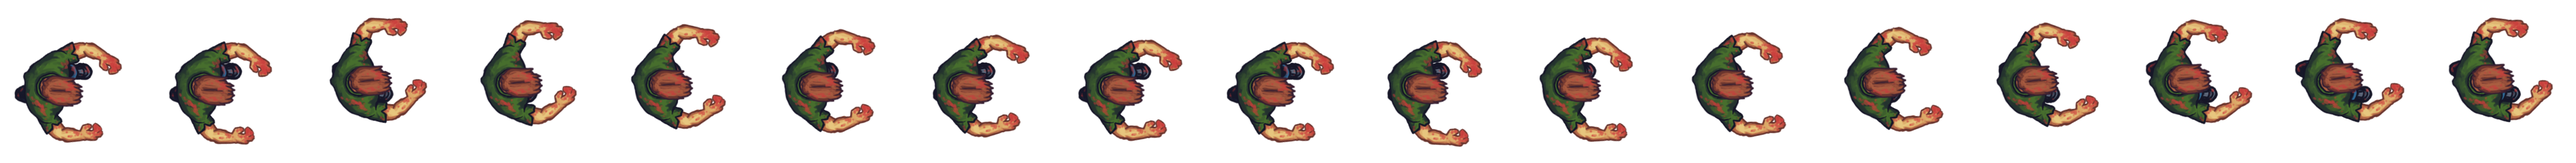
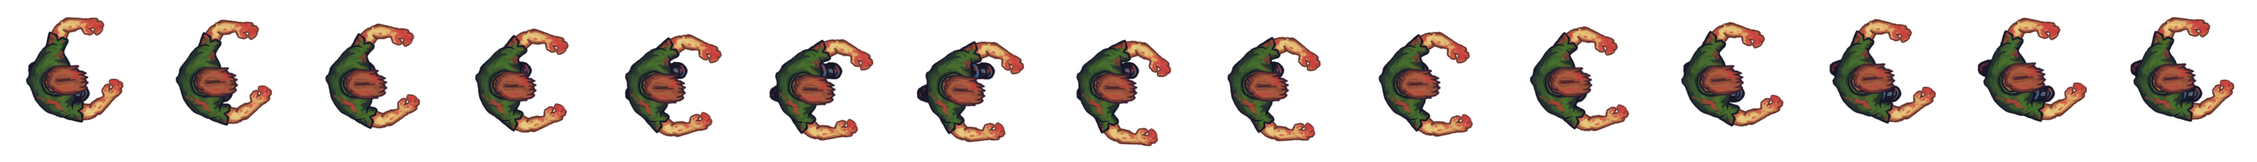
added zombie walking animation

diff --git a/SFML_Learning/Source/Zombie/Zombie.cpp b/SFML_Learning/Source/Zombie/Zombie.cpp
@@ -36,7 +36,11 @@ void Zombie::init()
 {
 	mID = ZOMBIE;
 	mSpeed = 300.0f;
-	setTexture(TextureLoader::getTexture(TextureData::TID_ZOMBIE_IDLE));
+
+	mAnimation = new Animation(*this, 15, 0.05f, 288, 311);
+
+	setTexture(TextureLoader::getTexture(TextureData::TID_ZOMBIE_WALK_SHEET));
+	setTextureRect(sf::IntRect(0, 0, 288, 311));
 	initHitBox();
 	alignCenter();
 }
@@ -48,6 +52,8 @@ void Zombie::update(float deltaTime)
 		release();
 		return;
 	}
+
+	mAnimation->update(deltaTime);
 
 	mAttackDelay += deltaTime;
 
@@ -97,7 +103,7 @@ void Zombie::processCollision(ICollidable* other)
 
 void Zombie::takeDamage(float damage)
 {
-	mHealth = GameMath::clamp(0, 100, mHealth - damage);
+	mHealth = GameMath::clamp<float>(0, 100, mHealth - damage);
 }
 
 float Zombie::damage()

diff --git a/SFML_Learning/Source/Animation/Animation.cpp b/SFML_Learning/Source/Animation/Animation.cpp
@@ -1,0 +1,29 @@
+#include "Animation/Animation.h"
+#include "GameMath/GameMath.h"
+
+#include <iostream>
+
+Animation::Animation(sf::Sprite& sprite, int frameCount, float frameDuration, int width, int height)
+	:	mSprite(sprite),
+		mFrameCount(frameCount),
+		mFrameDuration(frameDuration),
+		mCurrentFrame(0),
+		mDuration(0.0f),
+		mWidth(width),
+		mHeight(height)
+{}
+
+void Animation::update(float deltaTime)
+{
+	mDuration += deltaTime;
+
+	if (mDuration < mFrameDuration) return;
+	if (mCurrentFrame >= mFrameCount) mCurrentFrame = 0;
+
+	mDuration = 0.0f;
+
+	sf::IntRect textureRect(mCurrentFrame * mWidth, 0, mWidth, mHeight);
+	mSprite.setTextureRect(textureRect);
+
+	++mCurrentFrame;
+}

diff --git a/SFML_Learning/Headers/TextureLoader/TextureData.h b/SFML_Learning/Headers/TextureLoader/TextureData.h
@@ -8,7 +8,6 @@ namespace TextureData {
 	enum TextureID {
 		TID_PLAYER_IDLE,
 		TID_BULLET,
-		TID_ZOMBIE_IDLE,
 		TID_ZOMBIE_WALK_SHEET,
 		TID_ZOMBIE_ATTACK_SHEET,
 	};
@@ -16,8 +15,7 @@ namespace TextureData {
 	const std::unordered_map<TextureID, std::string> texturePaths = {
 		{TID_PLAYER_IDLE, "Assets/Player/player.png"},
 		{TID_BULLET, "Assets/Bullet/bullet.png"},
-		{TID_ZOMBIE_IDLE, "Assets/Zombie/idle.png"},
-		{TID_ZOMBIE_WALK_SHEET, "Assets/Zombie/attack.png"},
-		{TID_ZOMBIE_ATTACK_SHEET, "Assets/Zombie/walk.png"},
+		{TID_ZOMBIE_WALK_SHEET, "Assets/Zombie/walk.png"},
+		{TID_ZOMBIE_ATTACK_SHEET, "Assets/Zombie/attack.png"},
 	};
 }

diff --git a/SFML_Learning/Source/Game/Game.cpp b/SFML_Learning/Source/Game/Game.cpp
@@ -24,15 +24,6 @@ Game::Game()
 
 	Zombie* zombie = GameObjectBuilder::buildZombie(sf::Vector2f(100, 100), player);
 	GameObjectHandler::addGameObject(ZOMBIE, zombie);
-
-	zombie = GameObjectBuilder::buildZombie(sf::Vector2f(300, 300), player);
-	GameObjectHandler::addGameObject(ZOMBIE, zombie);
-
-	zombie = GameObjectBuilder::buildZombie(sf::Vector2f(400, 400), player);
-	GameObjectHandler::addGameObject(ZOMBIE, zombie);
-
-	zombie = GameObjectBuilder::buildZombie(sf::Vector2f(500, 500), player);
-	GameObjectHandler::addGameObject(ZOMBIE, zombie);
 }
 
 Game::~Game()

diff --git a/SFML_Learning/Headers/Zombie/Zombie.h b/SFML_Learning/Headers/Zombie/Zombie.h
@@ -3,6 +3,8 @@
 #include "GameObject/GameObject.h"
 #include "Collisions/ICollidable.h"
 
+#include "Animation/Animation.h"
+
 class Player;
 
 class Zombie : public GameObject
@@ -27,6 +29,8 @@ private:
 	float mAttackDelay;
 	float mHealth;
 	float mDamage;
+
+	Animation* mAnimation;
 
 	static const float OVERLAPPING_THRESHOLD;
 	static const float OVERLAPPING_FACTOR;

diff --git a/SFML_Learning/Headers/Animation/Animation.h b/SFML_Learning/Headers/Animation/Animation.h
@@ -1,0 +1,18 @@
+#pragma once
+
+#include <SFML/Graphics.hpp>
+ 
+class Animation {
+public:
+	Animation(sf::Sprite& sprite, int frameCount, float frameDuration, int width, int height);
+	void update(float deltaTime);
+
+private:
+	sf::Sprite& mSprite;
+	int mFrameCount;
+	float mFrameDuration;
+	int mCurrentFrame;
+	float mDuration;
+	int mWidth;
+	int mHeight;
+};

diff --git a/SFML_Learning/Headers/GameMath/GameMath.h b/SFML_Learning/Headers/GameMath/GameMath.h
@@ -50,7 +50,8 @@ namespace GameMath {
 		return (rand() % max);
 	}
 
-	inline float clamp(float minValue, float maxValue, float value)
+	template<typename T> 
+	inline T clamp(T minValue, T maxValue, T value)
 	{
 		if (value < minValue) return minValue;
 		if (value > maxValue) return maxValue;

diff --git a/SFML_Learning/Source/Player/Player.cpp b/SFML_Learning/Source/Player/Player.cpp
@@ -55,7 +55,7 @@ void Player::processCollision(ICollidable* other)
 
 void Player::takeDamage(float damage)
 {
-	mHealth = GameMath::clamp(0, 100, mHealth - damage);
+	mHealth = GameMath::clamp<float>(0, 100, mHealth - damage);
 }
 
 float Player::health()
